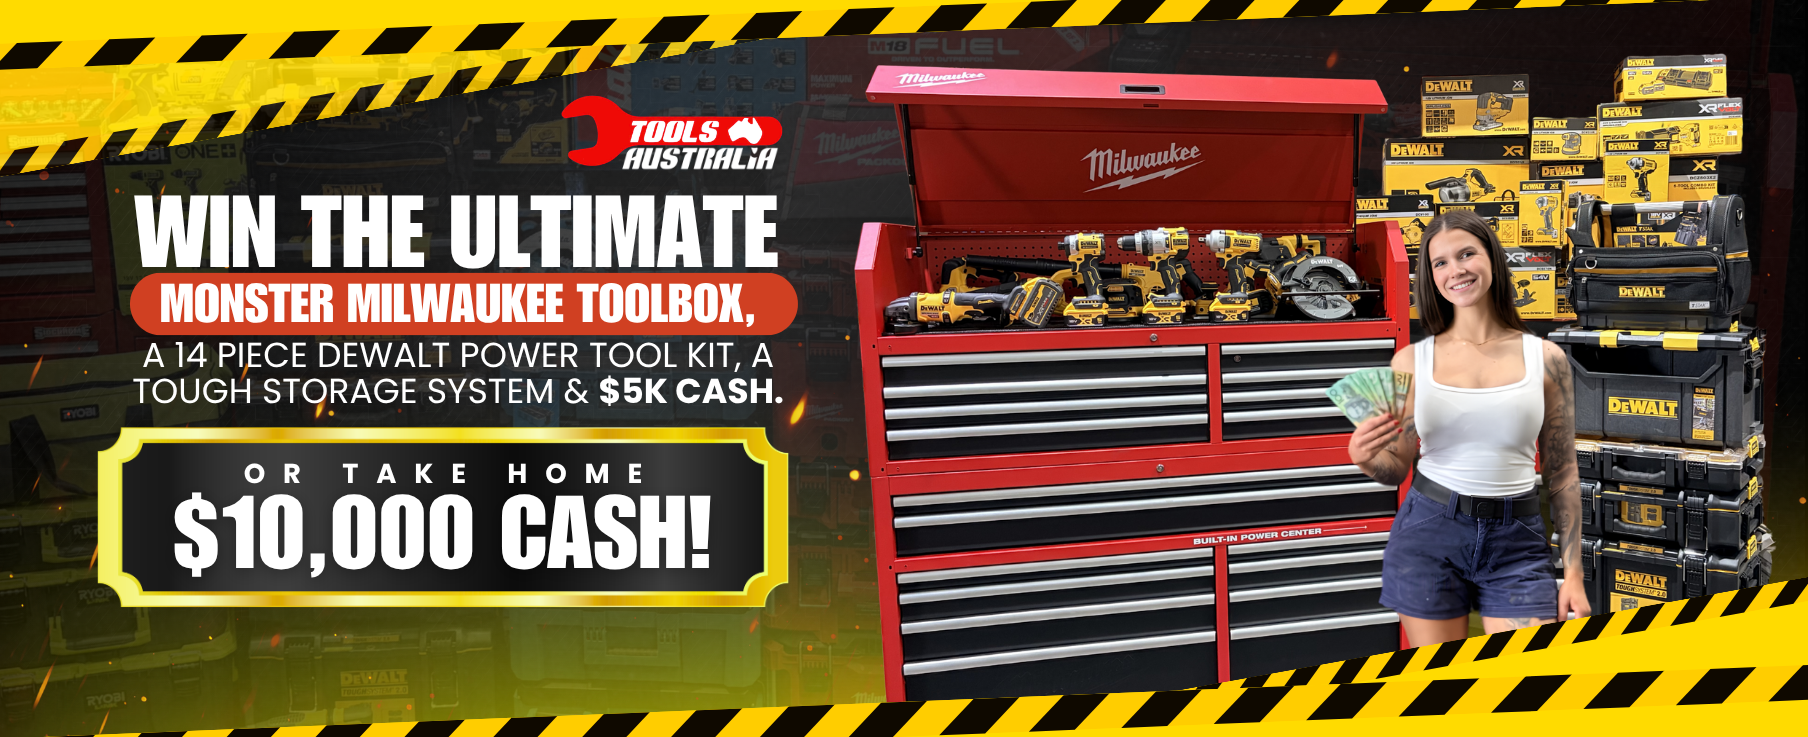
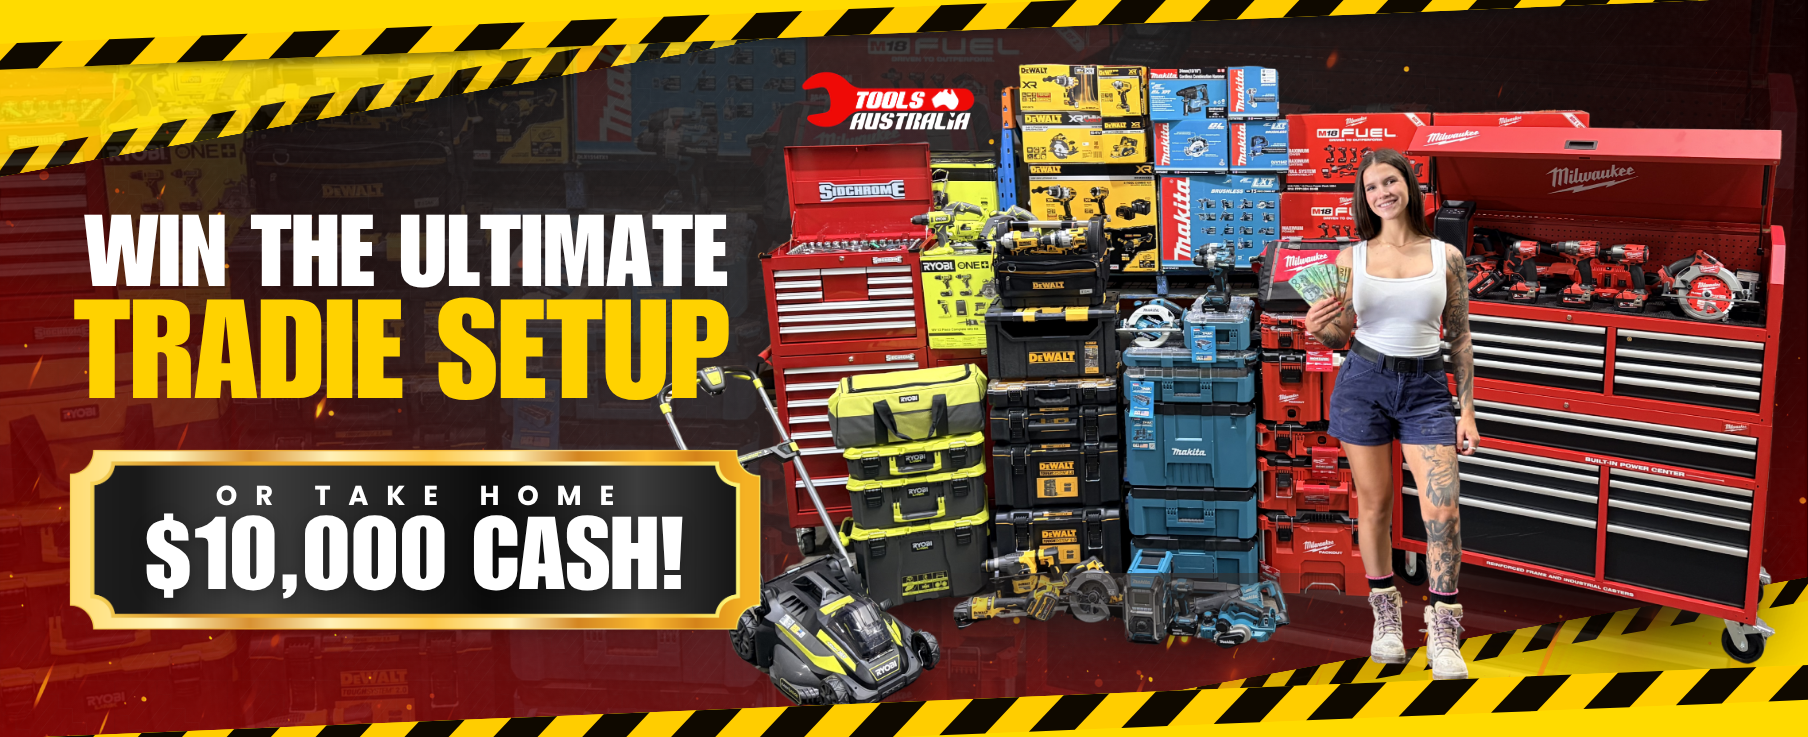
updated promoHero and evergreen pages image and default url

diff --git a/src/app/promotions/[slug]/page.tsx b/src/app/promotions/[slug]/page.tsx
@@ -52,9 +52,8 @@ import mongoose from "mongoose";
 import ExperimentService from "@/services/ab-testing/ExperimentService";
 import { VariantAssignmentWrapper } from "@/components/ab-testing/VariantAssignmentWrapper";
 import { getServerVariantAssignment } from "@/utils/ab-testing/get-server-variant-assignment";
-import { getPromoImagePaths } from "@/utils/promo/promo-hero-images";
 import type { PromoImagePaths } from "@/utils/promo/promo-hero-types";
-import { getLandingHeroImagePaths } from "@/config/promo-landing-slugs";
+import { resolveEvergreenHeroImages } from "@/utils/promo/landing-image-resolver";
 
 interface PromotionsPageProps {
   params: Promise<{ slug: string }>;
@@ -71,20 +70,6 @@ export function generateStaticParams() {
 const getCachedPrize = createCachedQuery(async (slug: string) => {
   return getPrizeBySlug(slug);
 });
-
-/**
- * Helper function to determine hero image paths based on promo multiplier
- * Used for preloading the correct hero images (responsive)
- * Note: Draw date status and variant config overrides are handled client-side
- * 
- * @param multiplier - Active promo multiplier
- * @returns PromoImagePaths object with desktop and mobile paths
- */
-function getHeroImagePaths(multiplier?: number): PromoImagePaths {
-  return getPromoImagePaths({
-    multiplier: multiplier ?? null,
-  });
-}
 
 export async function generateMetadata({ params }: PromotionsPageProps): Promise<Metadata> {
   const { slug } = await params;
@@ -145,11 +130,12 @@ export default async function PromotionsPage({ params }: PromotionsPageProps) {
   const membershipPromo = effectivePromos.find((p) => p.type === "membership-packages") || null;
   const oneTimePromo = effectivePromos.find((p) => p.type === "one-time-packages") || null;
 
-  // Preload: prefer configured landing PNGs (e.g. cash-prize → all-prizes mobile), else multiplier webps
-  const landingForPreload = getLandingHeroImagePaths(prize.slug);
-  const heroImagePaths: PromoImagePaths = landingForPreload
-    ? { desktop: landingForPreload.desktop, mobile: landingForPreload.mobile }
-    : getHeroImagePaths(membershipPromo?.multiplier);
+  // Preload: evergreen hero always uses all-prizes collage (matches PromoHero useAllPrizesHero)
+  const allPrizesHero = resolveEvergreenHeroImages();
+  const heroImagePaths: PromoImagePaths = {
+    desktop: allPrizesHero.desktop,
+    mobile: allPrizesHero.mobile,
+  };
 
   // Get experiment ID for variant assignment
   const experimentId = activeExperiment?._id 
@@ -193,7 +179,12 @@ export default async function PromotionsPage({ params }: PromotionsPageProps) {
           <main className="w-full overflow-hidden ">
             {/* Ensure hero + brands share the first mobile viewport for better context */}
             <div className="flex flex-col  lg:min-h-0 w-full ">
-              <PromoHero initialPromo={membershipPromo} initialMajorDraw={majorDraw} prizeSlug={prize.slug} />
+              <PromoHero
+                initialPromo={membershipPromo}
+                initialMajorDraw={majorDraw}
+                prizeSlug={prize.slug}
+                useAllPrizesHero
+              />
            
             </div>
 

diff --git a/src/components/sections/promo/PromoHero.tsx b/src/components/sections/promo/PromoHero.tsx
@@ -14,7 +14,11 @@ import { getMajorDrawHeroUrgencyFromDrawDate, getPromoImagePaths } from "@/utils
 import { usePromoTheme, usePromoThemeStore } from "@/stores/usePromoThemeStore";
 import { applyMajorDrawUrgencyToLandingPaths, getLandingHeroImagePaths } from "@/config/promo-landing-slugs";
 import { useThemeStore } from "@/stores/useThemeStore";
-import { getImageForMode, getFallbackImagePath } from "@/utils/promo/landing-image-resolver";
+import {
+  getImageForMode,
+  getFallbackImagePath,
+  resolveEvergreenHeroImages,
+} from "@/utils/promo/landing-image-resolver";
 
 /**
  * Ellipse clip-path on `.main-banner-image` creates the arched / rounded bottom hero look.
@@ -27,12 +31,18 @@ interface PromoHeroProps {
   initialMajorDraw?: ServerMajorDraw | null;
   /** URL prize slug — same as store after `PromoThemeInitializer`; used so landing PNGs resolve on first paint (store is null during SSR). */
   prizeSlug?: string | null;
+  /**
+   * Evergreen `/promotions/[slug]` pages: always use `all-prizes` hero art; theme/CTA still follow the prize slug.
+   * Toolset landing pages omit this so brand-specific landing heroes stay unchanged.
+   */
+  useAllPrizesHero?: boolean;
 }
 
 export default function PromoHero({
   initialPromo,
   initialMajorDraw,
   prizeSlug = null,
+  useAllPrizesHero = false,
 }: PromoHeroProps) {
   // Use initial data if available, but allow refetching for real-time updates
   const { isLoading, data: currentDraw } = useCurrentMajorDraw();
@@ -74,13 +84,18 @@ export default function PromoHero({
   const storeSlug = usePromoThemeStore((s) => s.slug);
   const effectiveSlug = storeSlug ?? prizeSlug ?? null;
   const majorDrawUrgency = getMajorDrawHeroUrgencyFromDrawDate(majorDraw?.drawDate);
-  const landingHeroPaths = effectiveSlug
+  const landingHeroPaths = useAllPrizesHero
     ? (() => {
-        const base = getLandingHeroImagePaths(effectiveSlug);
-        if (!base) return null;
+        const base = resolveEvergreenHeroImages();
         return majorDrawUrgency ? applyMajorDrawUrgencyToLandingPaths(base, majorDrawUrgency) : base;
       })()
-    : null;
+    : effectiveSlug
+      ? (() => {
+          const base = getLandingHeroImagePaths(effectiveSlug);
+          if (!base) return null;
+          return majorDrawUrgency ? applyMajorDrawUrgencyToLandingPaths(base, majorDrawUrgency) : base;
+        })()
+      : null;
   const standardHeroPaths = getPromoImagePaths({
     multiplier: resolvedMultiplier,
     majorDrawUrgency,

diff --git a/src/config/prizes.ts b/src/config/prizes.ts
@@ -2083,7 +2083,7 @@ export const PRIZE_CATALOG: PrizeCatalogEntry[] = [
   },
 ];
 
-export const DEFAULT_PRIZE_SLUG: PrizeSlug = "ryobi-milwaukee";
+export const DEFAULT_PRIZE_SLUG: PrizeSlug = "milwaukee-milwaukee";
 
 export function getPrizeBySlug(slug: string): PrizeCatalogEntry | undefined {
   return PRIZE_CATALOG.find((prize) => prize.slug === slug);
